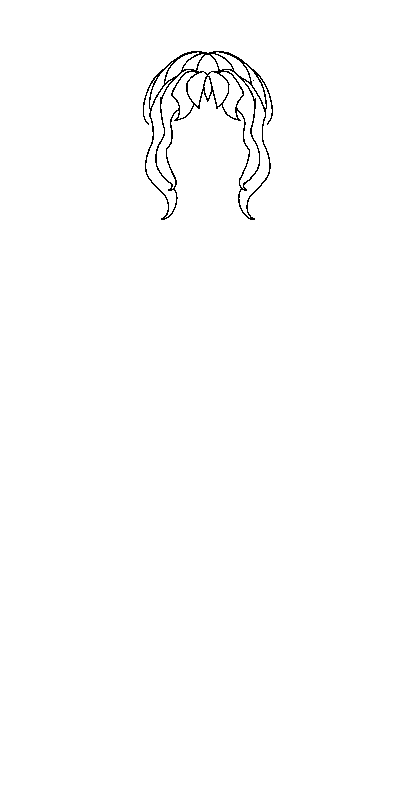
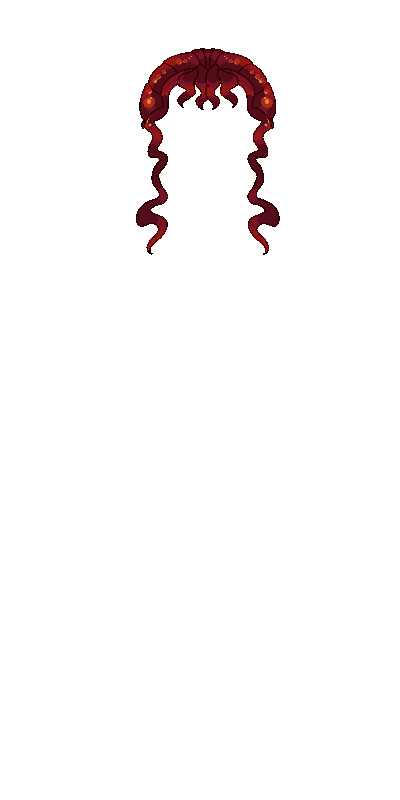
hair update
yurt

Changed region(s): [[0.33, 0.0625, 0.72, 0.3125]]

diff --git a/main.js b/main.js
@@ -11,13 +11,23 @@ let state = {
 const BOTTOMS_COUNT = 5;
 const SHOES_COUNT = 3;
 const BANGS_COUNT = 8;
-const HAIR_COUNT = 5;
+const HAIR_COUNT = 8;
 const SHIRT_COUNT = 4;
 const FACE_COUNT = 2;
+const HAIR_IMAGE_FILES = [
+  "hair0.png",
+  "hair1.png",
+  "hair2.PNG",
+  "hair3.png",
+  "hair4.png",
+  "hair5.PNG",
+  "hair6.PNG",
+  "hair7.PNG",
+];
 
 setLayerClass("bottoms", "bottoms", state.bottoms);
 setLayerClass("shoes", "shoes", state.shoes);
-setLayerClass("hair", "hair", state.hair);
+setHairLayerClass();
 setLayerClass("shirt", "shirt", state.shirt);
 setLayerClass("face", "face", state.face);
 setLayerClass("bangs", "bangs", state.bangs);
@@ -42,6 +52,12 @@ function setLayerClass(elementId, classPrefix, value) {
   const element = document.querySelector(`#${elementId}`);
   if (!element) return;
   element.setAttribute("class", `${classPrefix}${value}`);
+}
+
+function setHairLayerClass() {
+  const hairElement = document.querySelector("#hair");
+  if (!hairElement) return;
+  hairElement.setAttribute("class", `hair${state.hair - 1}`);
 }
 
 function nextValue(current, count) {
@@ -147,7 +163,7 @@ function getHairIndex(current, offset) {
 
 function setHairPreview(imgId, index) {
   const img = document.getElementById(imgId);
-  if (img) img.src = `./images4/hair${index - 1}.png`;
+  if (img) img.src = `./images4/${HAIR_IMAGE_FILES[index - 1]}`;
 }
 
 function updateHairCarousel() {
@@ -160,13 +176,13 @@ function updateHairCarousel() {
 
 function nexthair() {
   state.hair = nextValue(state.hair, HAIR_COUNT);
-  document.querySelector("#hair").setAttribute("class", `hair${state.hair - 1}`);
+  setHairLayerClass();
   updateHairCarousel();
 }
 
 function prevhair() {
   state.hair = state.hair > 1 ? state.hair - 1 : HAIR_COUNT;
-  document.querySelector("#hair").setAttribute("class", `hair${state.hair - 1}`);
+  setHairLayerClass();
   updateHairCarousel();
 }
 

diff --git a/styles.css b/styles.css
@@ -385,10 +385,12 @@ button:hover {
 
 .hair0 { background-image: url("./images4/hair0.png"); }
 .hair1 { background-image: url("./images4/hair1.png"); }
-.hair2 { background-image: url("./images4/hair2.png"); }
+.hair2 { background-image: url("./images4/hair2.PNG"); }
 .hair3 { background-image: url("./images4/hair3.png"); }
 .hair4 { background-image: url("./images4/hair4.png"); }
-.hair5 { background-image: url("./images4/hair5.png"); }
+.hair5 { background-image: url("./images4/hair5.PNG"); }
+.hair6 { background-image: url("./images4/hair6.PNG"); }
+.hair7 { background-image: url("./images4/hair7.PNG"); }
 
 .face1 { background-image: url("./images4/face1.png"); }
 .face2 { background-image: url("./images4/face2.png"); }
